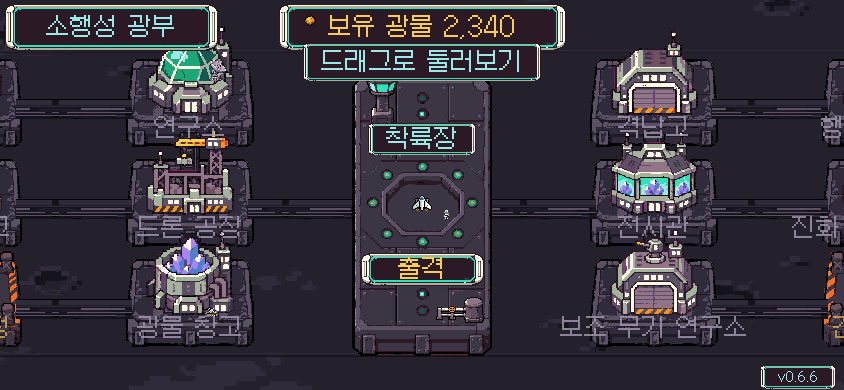
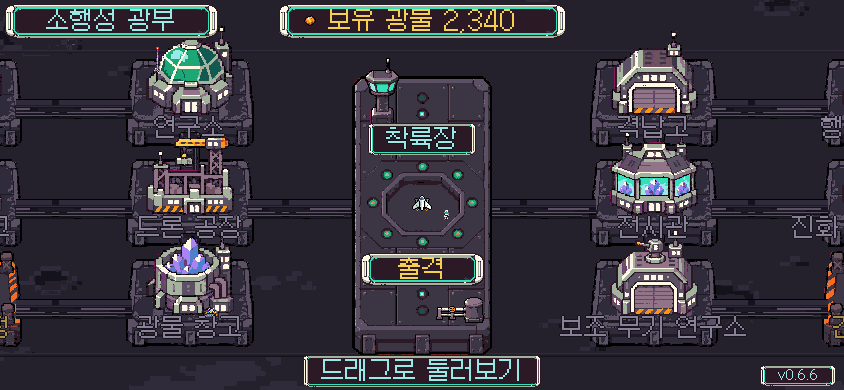
v0.7.0 기지 리뷰 반영(작은 끌기 움직임 누적, 이륙 중 끌기 막음), 캡처, 진행 기록

diff --git a/PROGRESS.md b/PROGRESS.md
@@ -652,3 +652,10 @@
 - 판단: 착륙장 위아래 칸을 비워 첫 화면 7칸. 표식은 판 없이 갑판 모서리. 대기에서 운반 드론 뺌. 어두운 회색 4단계는 void32 밖이라 사용자에게 물음. 소리는 `tools/make_sfx.py`를 건드리지 않고 시안 스크립트로 만듦.
 - 검토: final-reviewer 1번째에 통과, 검토자 파일 변경 없음. 게임 코드 변경이 없어 게임 테스트·웹 내보내기는 생략, 시안 스크립트의 자체 확인 통과(종료 코드 0).
 - 확인할 것: 시안 방향과 어두운 회색, 소리 후보 선택(귀로 못 들음, 측정만).
+
+## v0.7.0 기지 정거장 적용, 카드 소리 d (2026-11-09, 브랜치 v0.7.0-polish, 게임 버전 0.6.6 그대로)
+- 만든 것: A1 네모 격자 정거장(칸 배치 데이터, 3칸 착륙장 + 관제탑·연료관·유도등 줄, 맨 바깥 둘레 띠, 흐린 이름 글자 + 밝은 이름표, 건설 예정 2칸, 꾸밈은 가장자리), 끌어서 둘러보기(마우스·손가락, 지도 끝 제한, 안내 한 번), 끌어도 화면 안에 남는 출격 버튼, 기지 정수 배율. 카드 소리 d1·d2, 게임에는 d2. 자료 `review/v070_base_impl/`, `review/v070_step5/listen/`
+- 판단: 건물 창·결과 창은 1280x720 격자 유지, 풍경·상단 UI만 정수 배율 무대에 넣음. 착륙장은 Codex 1장 새로 만듦. 정찰 드론, "곧 개방" 표지, 건물 그림자, 표식 아이콘은 뺌(복잡함 줄이기). 유니크 쉬익은 별도 소리로 카드가 떨어질 때 시작해 앞면에서 쾅이 맞음. 안 쓰는 옛 그림은 지우지 않음.
+- 리뷰: Codex 1건(작은 끌기 움직임이 반올림으로 사라짐) 수용. ponytail 4건 수용, 1건 거절.
+- 확인할 것: 카드 소리(귀로 못 들음, 숫자로만 고름), 실제 폰 손가락 끌기, 폰 이름 글자 읽힘.
+- 검토: 게임 테스트 462 + 도구 101 통과(종료 코드 0), 웹 콘솔 오류 0(PC, 폰 DPR 1·3, 터치 끌기 포함), 격자 일치율 99.9% 이상, final-reviewer 1번째에 통과, 검토자 파일 변경 없음.
